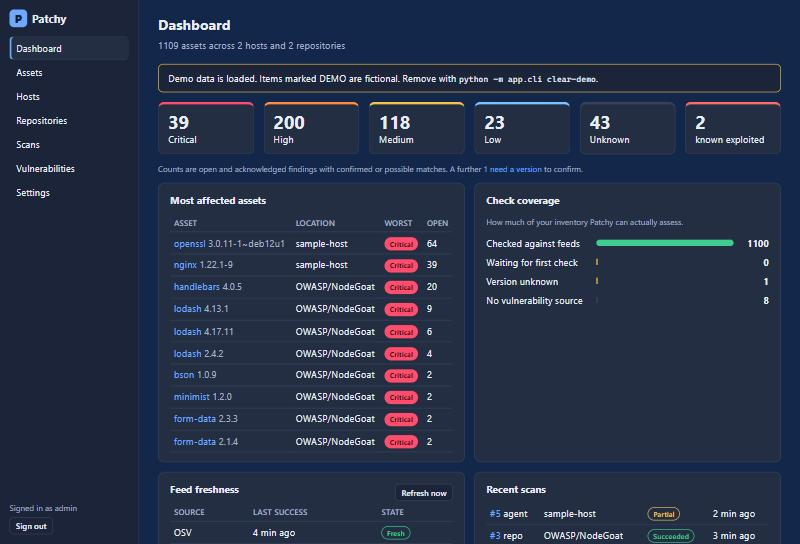
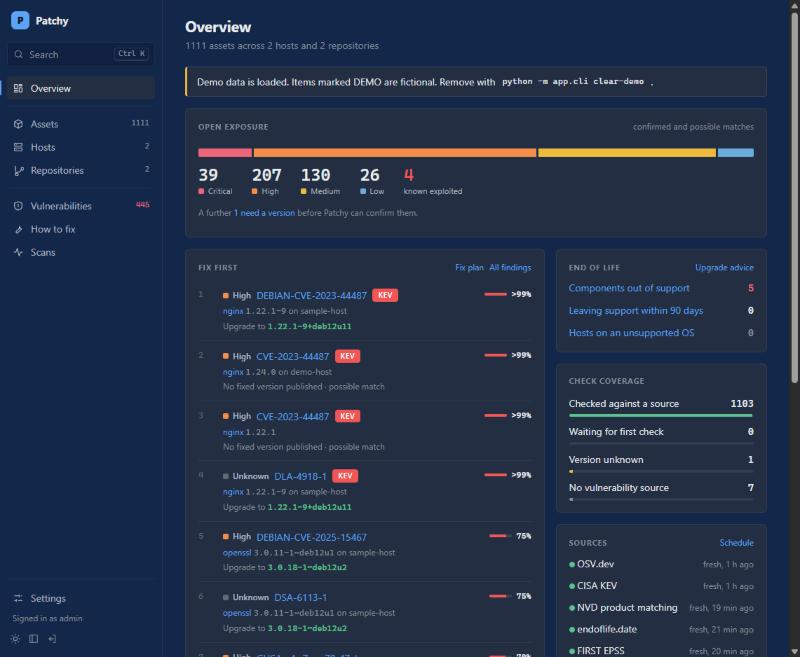
Document v1.1 sources, fix plans and themes; refresh screenshots

diff --git a/README.md b/README.md
@@ -1,6 +1,6 @@
 # Patchy
 
-Self-hosted software inventory and vulnerability tracker for a home lab. Register software by hand, discover it from GitHub repositories and Linux hosts, match it against OSV, CISA KEV and (optionally) NVD, and get sourced remediation guidance.
+Self-hosted software inventory and vulnerability tracker for a home lab. Register software by hand, discover it from GitHub repositories and Linux hosts, match it against OSV, NVD and CISA KEV, rank by EPSS exploit likelihood, track end-of-life dates, and get a step-by-step fix plan.
 
 ![Dashboard](docs/screenshots/dashboard.jpg)
 
@@ -15,6 +15,8 @@ Self-hosted software inventory and vulnerability tracker for a home lab. Registe
 - [Scanning GitHub repositories](#scanning-github-repositories)
 - [Linux agent](#linux-agent)
 - [Vulnerability feeds](#vulnerability-feeds)
+- [How to fix](#how-to-fix)
+- [Themes and views](#themes-and-views)
 - [How matching works](#how-matching-works)
 - [API](#api)
 - [Development and tests](#development-and-tests)
@@ -30,14 +32,21 @@ Self-hosted software inventory and vulnerability tracker for a home lab. Registe
 - **Inventory**: languages, libraries, web servers, databases, OS packages, container images and other software, with versions, hosts, IPs, ports, paths, repositories and notes. Search, filter, edit and delete.
 - **GitHub discovery**: reads manifests and lockfiles through the GitHub API. Nothing is cloned, built or executed.
 - **Linux agent**: one read-only Python script on a systemd timer. It sends reports outbound over HTTPS using a revocable per-host token.
-- **Vulnerabilities**: OSV matching with evidence, CISA KEV flags, optional NVD scores, fixed versions and remediation steps taken from the advisory.
+- **Vulnerabilities**: OSV matching with evidence, NVD product (CPE) matching for servers and runtimes, CISA KEV flags, FIRST EPSS exploit likelihood, NVD scores, fixed versions and remediation taken from the advisory.
+- **End of life**: support dates from endoflife.date for runtimes, frameworks, servers and host operating systems.
+- **How to fix**: open findings grouped into the fewest upgrade steps per host, repository and manifest, with a copy-paste command where it's safe to give one.
+- **GitHub Dependabot**: cross-checks each repository's Dependabot alerts against Patchy's own findings.
+- **Per-source schedules**: switch each source on or off and choose how often it refreshes, from Settings.
+- **Interface**: 8 colour schemes with day and night modes, 6 font styles, compact density, sortable tables with a column chooser, quick search (Ctrl+K). Version and changelog in Settings.
 - **Honest states**: confirmed, possible and version-unknown matches are kept separate. "Not checked" and "stale feed" are never shown as clean.
 - **Workflow**: open, acknowledged, resolved and false-positive states with notes. Findings auto-resolve when the version moves out of range and reopen if it moves back.
 - **Audit log** of logins, asset changes, scans, agent enrolment and revocation, and status changes.
 
-| Assets | Finding detail | Host and agent |
-|---|---|---|
-| ![Assets](docs/screenshots/assets.jpg) | ![Finding](docs/screenshots/finding.jpg) | ![Host](docs/screenshots/host.jpg) |
+| How to fix | Vulnerabilities |
+|---|---|
+| ![Fix plan](docs/screenshots/fix.jpg) | ![Vulnerabilities](docs/screenshots/vulnerabilities.jpg) |
+| **Host and agent** | **Themes (Harbour, day)** |
+| ![Host](docs/screenshots/host.jpg) | ![Themes](docs/screenshots/themes.jpg) |
 
 <br>
 
@@ -84,9 +93,11 @@ All settings are environment variables in `.env`. See [.env.example](.env.exampl
 | `SESSION_HOURS` | `12` | Session lifetime |
 | `FORWARDED_ALLOW_IPS` | `127.0.0.1` | Reverse proxy IP(s) trusted for `X-Forwarded-For` |
 | `GITHUB_TOKEN` | empty | Private repos and 5000 requests/h. Never sent to the browser |
-| `OSV_ENABLED` / `KEV_ENABLED` / `NVD_ENABLED` | `true` / `true` / `false` | Feed switches |
-| `NVD_API_KEY` | empty | Optional, raises the NVD rate limit |
-| `FEED_REFRESH_HOURS` | `24` | Automatic full refresh interval, `0` = manual only |
+| `OSV_ENABLED` / `KEV_ENABLED` / `NVD_ENABLED` | `true` / `true` / `false` | Source switches (defaults; Settings can override) |
+| `NVD_CPE_ENABLED` / `EPSS_ENABLED` / `EOL_ENABLED` / `DEPENDABOT_ENABLED` | `true` | New in 1.1. Dependabot also needs `GITHUB_TOKEN` with "Dependabot alerts: read" |
+| `NVD_API_KEY` | empty | Optional, raises the NVD rate limit (speeds up product matching a lot) |
+| `NVD_CPE_MAX_PER_REFRESH` | `100` | Cap on NVD product lookups per refresh |
+| `FEED_REFRESH_HOURS` | `24` | Default schedule for every source (end-of-life defaults to weekly). `0` = manual only. Settings overrides it per source |
 | `FEED_STALE_HOURS` | `72` | After this, results are flagged stale |
 | `OSV_MAX_*`, `NVD_MAX_PER_REFRESH` | see example | Hard caps on requests per refresh |
 | `REPO_MAX_FILE_BYTES` / `REPO_MAX_TOTAL_BYTES` / `REPO_MAX_MANIFESTS` / `REPO_SCAN_TIMEOUT_SECONDS` | 5 MB / 50 MB / 300 / 180 | Repository scan limits |
@@ -212,9 +223,14 @@ Debian, Raspberry Pi OS and Ubuntu packages are matched against OSV's distro adv
 |---|---|---|---|
 | [OSV.dev](https://osv.dev) | Advisories, affected ranges, fixed versions | No key. Batches of up to 1000 queries, then one fetch per advisory (4 in parallel) | `OSV_*` |
 | [CISA KEV](https://www.cisa.gov/known-exploited-vulnerabilities-catalog) | Known-exploited flag, CISA due date and required action | One JSON download per full refresh | `KEV_ENABLED` |
-| [NVD](https://nvd.nist.gov/developers) | CVSS score where OSV has none | 5 requests/30 s, or 50 with `NVD_API_KEY`. Patchy paces itself and caps at `NVD_MAX_PER_REFRESH` | `NVD_*` |
+| [NVD](https://nvd.nist.gov/developers) severity | CVSS score where OSV has none | 5 requests/30 s, or 50 with `NVD_API_KEY`. Patchy paces itself and caps at `NVD_MAX_PER_REFRESH` | `NVD_*` |
+| [NVD](https://nvd.nist.gov/developers) product matching | CVEs for servers, runtimes and manual assets OSV can't check (nginx, OpenSSH, OpenSSL, Python, Node.js, PostgreSQL...), by CPE version range | Same NVD limits. One request per product and version, cached | `NVD_CPE_*` |
+| [FIRST EPSS](https://www.first.org/epss/) | Probability each CVE is exploited in the next 30 days. Drives the *Priority* sort and *Fix first* list | No key. 100 CVEs per request | `EPSS_ENABLED` |
+| [endoflife.date](https://endoflife.date) | Support and end-of-life dates for components and host OSes | One download per refresh | `EOL_ENABLED` |
+| [GitHub Dependabot](https://docs.github.com/en/code-security/dependabot/dependabot-alerts) | Repository alerts, cross-checked against Patchy's findings | `GITHUB_TOKEN` rate limit | `DEPENDABOT_ENABLED` |
 
-- A **full refresh** runs every `FEED_REFRESH_HOURS` and from **Refresh now** on the dashboard or Settings (at most 6 an hour).
+- Each source has its own **schedule** (Settings, Sources and schedule): manual, hourly, every 3, 6 or 12 hours, daily, every 2 or 3 days, or weekly. The worker refreshes whichever sources are due, then re-matches the inventory.
+- **Refresh now** in Settings refreshes everything or a single source (at most 12 an hour).
 - After any scan or asset change, a small **pending refresh** checks only the new package versions. It doesn't move the "last updated" time.
 - Each source records its last attempt, last success and last error. If OSV fails or goes stale, every page says so, and components show "Not checked yet" or "Feed stale" instead of a clean result.
 
@@ -236,6 +252,30 @@ The logic lives in [backend/app/matching.py](backend/app/matching.py) and has no
 
 Names must match exactly after ecosystem normalisation (PEP 503 for PyPI). A similar name is never a match. Remediation uses only the advisory's `fixed` events and links. If none are listed, Patchy says so rather than guessing.
 
+**NVD product matching** covers components OSV can't: agent-detected servers and runtimes, and manual assets. A curated map (and endoflife.date's CPE identifiers) turns a name into a `vendor:product`, or you can set the CPE on a manual asset. NVD evaluates the version ranges, and Patchy re-checks that the product itself (not just its platform) is vulnerable. These matches are always **possible**: Debian, Ubuntu and others backport fixes without changing the upstream version, so check your distro's tracker. Binaries installed from a distro package are skipped here, because OSV already checks the package.
+
+<br>
+
+## How to fix
+
+Each host and repository has a **How to fix** tab, and **How to fix** in the sidebar covers everything.
+
+- Findings are grouped by host and package manager, or by repository manifest. Each group is one upgrade step, ordered known-exploited first, then by severity.
+- The target version is the smallest release that fixes every advisory with a published fix.
+- Steps include a copy-paste command (`apt`, `apk`, `dnf`, `npm`/`yarn`/`pnpm`, `pip`, `go get`, `cargo`, `composer`, `bundle`) only when every package name and version passes a strict character check. Names from scanned repositories are untrusted, so anything unusual is listed but left out of the command.
+- Findings with no published fix, and components or host OSes that are out of support (or leave support within 90 days), are listed separately with upgrade advice.
+
+> [!IMPORTANT]
+> Test updates before rolling them out. Patchy builds these steps from advisory data and can't guarantee an update is safe or complete.
+
+<br>
+
+## Themes and views
+
+Settings, Appearance: 8 colour schemes (Navy, Graphite, Harbour, Fern, Plum, Ember, Sand, High contrast), each with day and night modes or follow the system, 6 font styles using fonts already on the device (nothing is downloaded), comfortable or compact density, and rows per page. Choices are saved per browser.
+
+Every table can be sorted by clicking a column header (again to reverse), and **Columns** chooses which columns show. Sort and filters live in the URL, so a filtered view can be bookmarked. Press <kbd>Ctrl</kbd>+<kbd>K</kbd> to jump to any page, host or repository.
+
 <br>
 
 ## API
@@ -250,10 +290,11 @@ JSON over `/api`. The OpenAPI schema is at `/api/openapi.json`, and Swagger UI i
 | Repositories | `GET/POST /api/repositories`, `GET/DELETE /api/repositories/{id}`, `POST /api/repositories/{id}/scan` |
 | Scans | `GET /api/scans`, `GET /api/scans/{id}` |
 | Findings | `GET /api/findings`, `GET /api/findings/{id}`, `POST /api/findings/{id}/status` |
-| Feeds and dashboard | `GET /api/feeds`, `POST /api/feeds/refresh`, `GET /api/dashboard`, `GET /api/settings`, `GET /api/audit` |
+| Feeds and dashboard | `GET /api/feeds`, `POST /api/feeds/refresh` (optional `{"sources": [...]}`), `GET /api/dashboard`, `GET /api/settings`, `PUT /api/settings/sources`, `GET /api/version`, `GET /api/audit` |
+| Fix plans | `GET /api/fix-plan?host_id=` or `?repository_id=` |
 | Agent (bearer token) | `GET /api/agent/ping`, `POST /api/agent/report` |
 
-Lists take `page` and `page_size` (max 200) and return `{items, total, page, page_size}`. Writes from the browser need the `X-CSRF-Token` header returned by `/api/auth/me`. Times are UTC ISO 8601. Re-sending an agent report with the same `report_id` returns the original scan, and a repeated scan request returns the queued one.
+Lists take `page`, `page_size` (max 200), `sort` and `order` (`asc`/`desc`) and return `{items, total, page, page_size}`. Writes from the browser need the `X-CSRF-Token` header returned by `/api/auth/me`. Times are UTC ISO 8601. Re-sending an agent report with the same `report_id` returns the original scan, and a repeated scan request returns the queued one.
 
 <br>
 
@@ -301,7 +342,8 @@ Restore into a fresh stack with `gunzip -c file.sql.gz | docker compose exec -T 
 ## Known limitations
 
 - Version comparison is done locally only for PyPI, npm, Go, crates.io, Debian and Ubuntu. Maven, Packagist, RubyGems, Alpine, Rocky and Alma rely on OSV's server-side version match. NuGet has no parser yet.
-- Container images, language runtimes, web-server configs and agent version probes are inventory only. Patchy doesn't scan image layers, and OSV has no feed for e.g. an nginx built from source.
+- Container images and web-server configs get end-of-life tracking only. Patchy doesn't scan image layers.
+- NVD product matching only knows products with a curated or endoflife.date CPE, or one you set on a manual asset. Its results are possible matches, not confirmed.
 - Without a lockfile, npm/PyPI/Cargo/Composer dependencies are constraints, shown as version unknown.
 - `go.sum` and Gradle files with variables or version catalogs aren't resolved.
 - GitHub truncates trees over about 100,000 entries. The scan says so when it happens.
